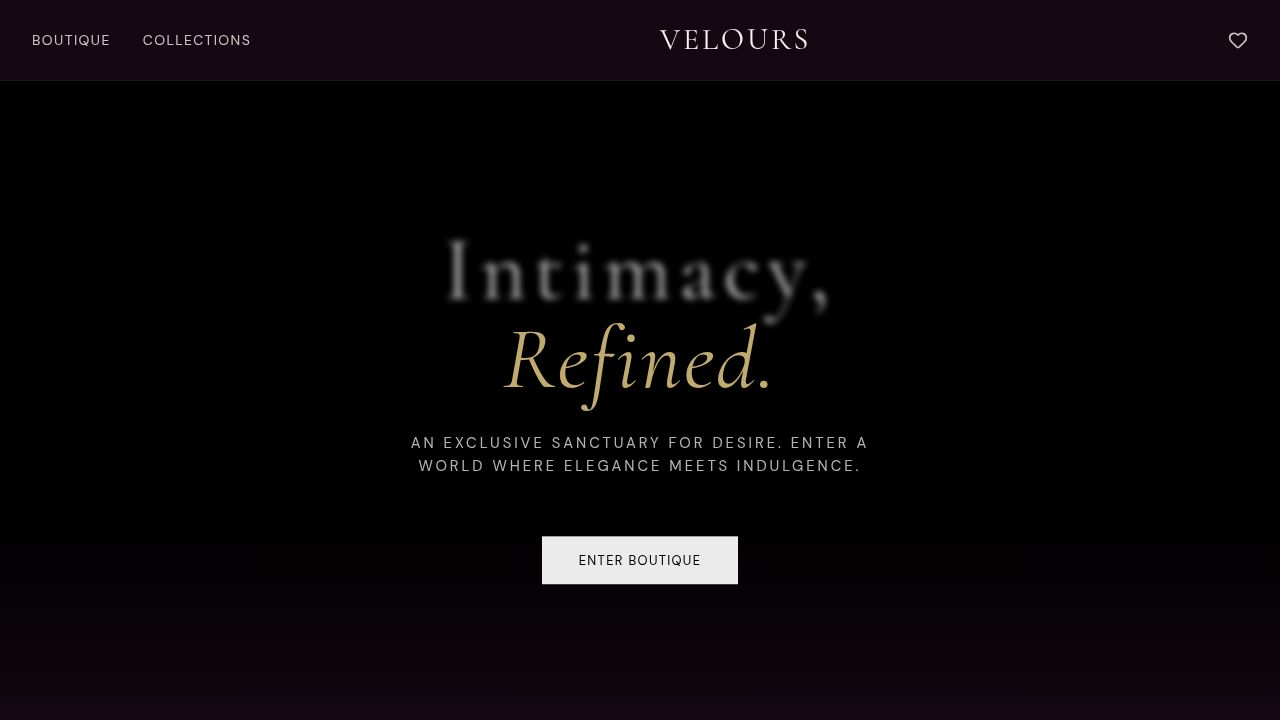
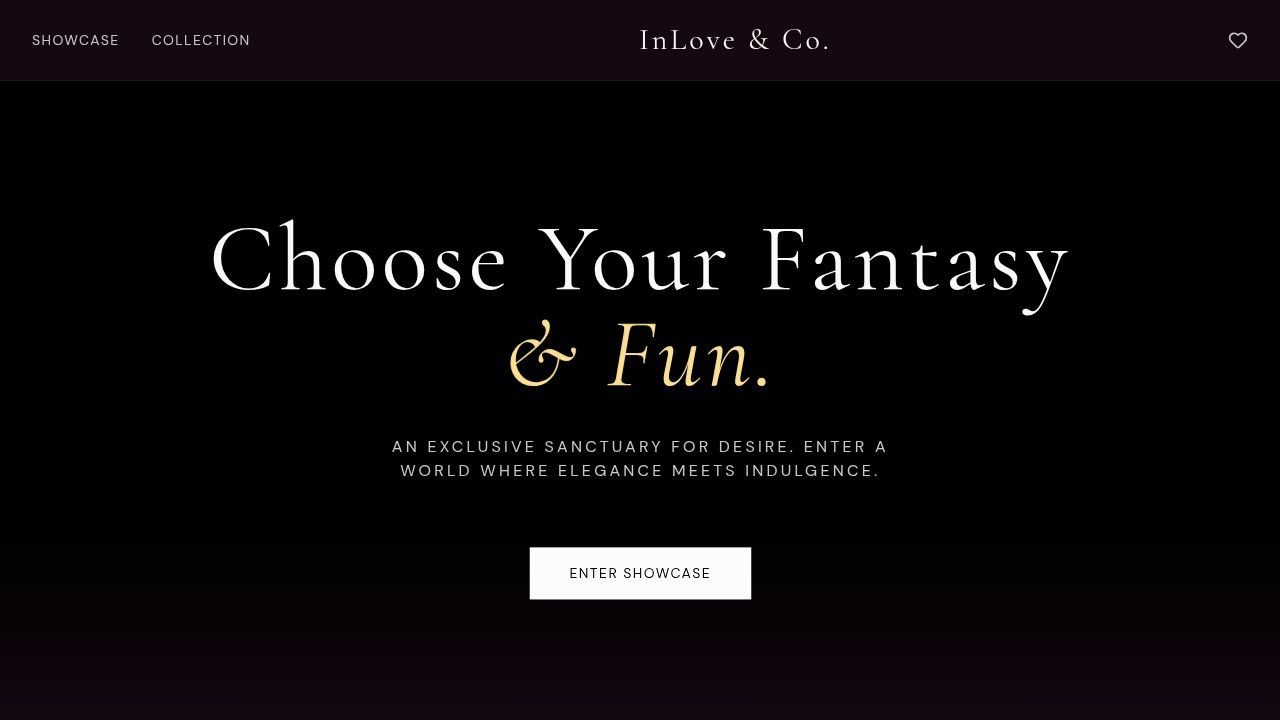
Add functionality to link products to external sites
Configure API proxy in Vite and add a new route to serve product links from a JSON file, updating the product detail page to display the correct link.

Replit-Commit-Author: Agent
Replit-Commit-Session-Id: 6de8818d-cf6e-4436-89e5-d037ae965634
Replit-Commit-Checkpoint-Type: full_checkpoint
Replit-Commit-Event-Id: 91ed602d-fc17-4180-8bb5-9ee97db7c5f0
Replit-Commit-Screenshot-Url: https://storage.googleapis.com/screenshot-production-us-central1/46ff44a7-bdd2-4434-9524-3860000bb8d7/6de8818d-cf6e-4436-89e5-d037ae965634/iVpIcsL
Replit-Helium-Checkpoint-Created: true

diff --git a/artifacts/api-server/src/routes/product-links.ts b/artifacts/api-server/src/routes/product-links.ts
@@ -1,0 +1,31 @@
+import { Router } from "express";
+import { readFile } from "fs/promises";
+import { resolve } from "path";
+
+const router = Router();
+
+const LINKS_FILE = resolve(process.cwd(), "../../product-links/links.json");
+
+router.get("/product-links", async (req, res) => {
+  try {
+    const raw = await readFile(LINKS_FILE, "utf-8");
+    const data = JSON.parse(raw);
+
+    const lookup: Record<string, string> = {};
+    for (const items of Object.values(data) as Array<Array<{ code: string; link: string }>>) {
+      if (!Array.isArray(items)) continue;
+      for (const item of items) {
+        if (item.code && item.link) {
+          lookup[item.code] = item.link;
+        }
+      }
+    }
+
+    res.json(lookup);
+  } catch (err) {
+    req.log.warn({ err }, "Could not read product-links.json");
+    res.json({});
+  }
+});
+
+export default router;

diff --git a/artifacts/luxe-store/src/pages/product-detail.tsx b/artifacts/luxe-store/src/pages/product-detail.tsx
@@ -7,10 +7,24 @@ import { Loader2, Heart, ShoppingBag, ArrowLeft } from "lucide-react";
 import { Link } from "wouter";
 import { useFavorites } from "@/context/favorites";
 import { useToast } from "@/hooks/use-toast";
+import { useQuery } from "@tanstack/react-query";
+
+function useProductLinks() {
+  return useQuery<Record<string, string>>({
+    queryKey: ["product-links"],
+    queryFn: async () => {
+      const res = await fetch("/api/product-links");
+      if (!res.ok) return {};
+      return res.json();
+    },
+    staleTime: 60_000,
+  });
+}
 
 export function ProductDetail() {
   const { id } = useParams<{ id: string }>();
   const { data: product, isLoading, error } = useGetProduct(Number(id));
+  const { data: productLinks = {} } = useProductLinks();
   const { isFavorited, toggleFavorite } = useFavorites();
   const { toast } = useToast();
 
@@ -34,7 +48,11 @@ export function ProductDetail() {
     });
   };
 
-  const shopeeUrl = product
+  const productCode = (product as (typeof product & { code?: string }) | undefined)?.code ?? "";
+  const specificLink = productCode ? productLinks[productCode] : "";
+  const shopeeUrl = specificLink
+    ? specificLink
+    : product
     ? `https://shopee.co.id/search?keyword=${encodeURIComponent(product.name)}`
     : "https://shopee.co.id";
 

diff --git a/artifacts/luxe-store/vite.config.ts b/artifacts/luxe-store/vite.config.ts
@@ -66,6 +66,12 @@ export default defineConfig({
     fs: {
       strict: true,
     },
+    proxy: {
+      "/api": {
+        target: "http://localhost:8080",
+        changeOrigin: true,
+      },
+    },
   },
   preview: {
     port,

diff --git a/artifacts/api-server/src/routes/index.ts b/artifacts/api-server/src/routes/index.ts
@@ -1,10 +1,12 @@
 import { Router, type IRouter } from "express";
 import healthRouter from "./health";
 import productsRouter from "./products";
+import productLinksRouter from "./product-links";
 
 const router: IRouter = Router();
 
 router.use(healthRouter);
 router.use(productsRouter);
+router.use(productLinksRouter);
 
 export default router;